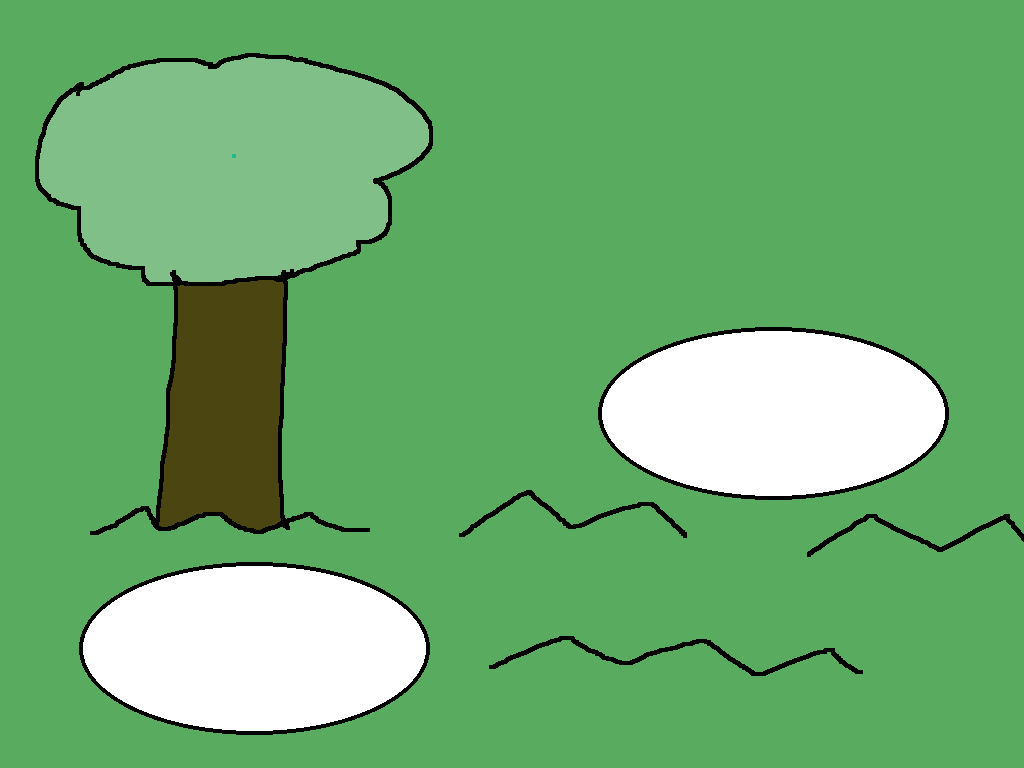
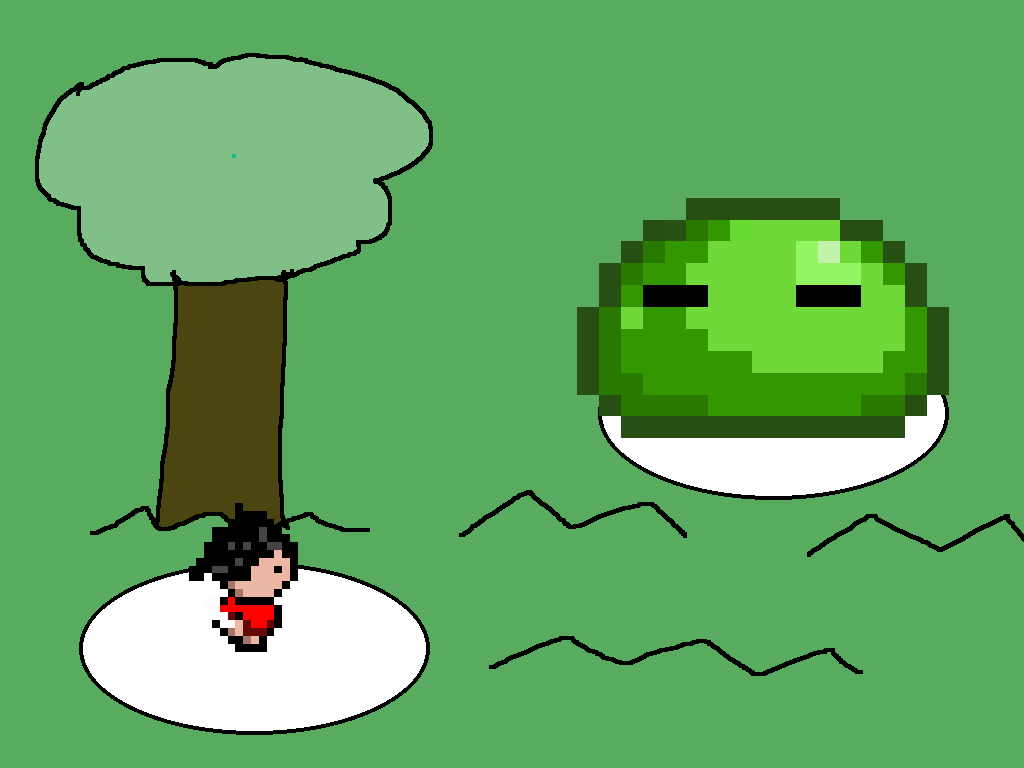
working on battle display

Changed region(s): [[0.5625, 0.25, 0.9375, 0.5938], [0.1875, 0.6562, 0.3125, 0.875]]

diff --git a/src/GamePanel.java b/src/GamePanel.java
@@ -17,7 +17,7 @@ public class GamePanel extends JPanel implements Runnable {
     final int maxScreenRow = 12;
     final int screenWidth = tileSize * maxScreenCol;
     final int screenHeight = tileSize * maxScreenRow;
-    public BufferedImage battleOn1;
+    public BufferedImage battleOn1, playerAttack, slimeAttack;
 
 
     public CollisionSys check;
@@ -60,6 +60,8 @@ public class GamePanel extends JPanel implements Runnable {
         check = new CollisionSys(this);
         try {
             battleOn1 = ImageIO.read(Objects.requireNonNull(getClass().getResourceAsStream("src/BackgroundStartBase1.png")));
+            playerAttack = ImageIO.read(Objects.requireNonNull(getClass().getResourceAsStream("playerAttack.png")));
+            slimeAttack =ImageIO.read(Objects.requireNonNull(getClass().getResourceAsStream("src/slimeAttack.png")));
         } catch (Exception e){
 
         }
@@ -82,8 +84,12 @@ public class GamePanel extends JPanel implements Runnable {
         this.g = g;
          g2 = (Graphics2D) g; //extension of graphic (has special functions)
 
-
-        if(event.battleOn) {
+        if(event.slimeAtk){
+            g2.drawImage(slimeAttack, 0,0,1024,768,null);
+        }else if(event.playerAtk) {
+            g2.drawImage(playerAttack, 0,0,1024,768,null);
+        }
+        else if(event.battleOn) {
             g2.drawImage(battleOn1, 0,0,1024,768,null);
         }
         else if(event.currentMap.equals("1")) {

diff --git a/src/Player.java b/src/Player.java
@@ -110,7 +110,17 @@ public class Player extends Entity {
         }
 
         if (choice ==1) {
+            event.playerAtk = true;
+
+            event.gp.paintComponent(event.gp.g);
+            try {
+                Thread.sleep(2 * 1000);
+                System.out.println(choice);
+            } catch (InterruptedException e) {
+                e.printStackTrace();
+            }
             entity.damageTaken(baseAttack());
+            event.playerAtk = false;
         }
         if (choice == 2) {
             heal();

diff --git a/src/Events.java b/src/Events.java
@@ -6,6 +6,8 @@ public class Events {
 
     public boolean battleOn = false;
 
+    public boolean slimeAtk = false;
+    public boolean playerAtk = false;
 
     public Scanner SCAN = new Scanner(System.in);
     public GamePanel gp;
